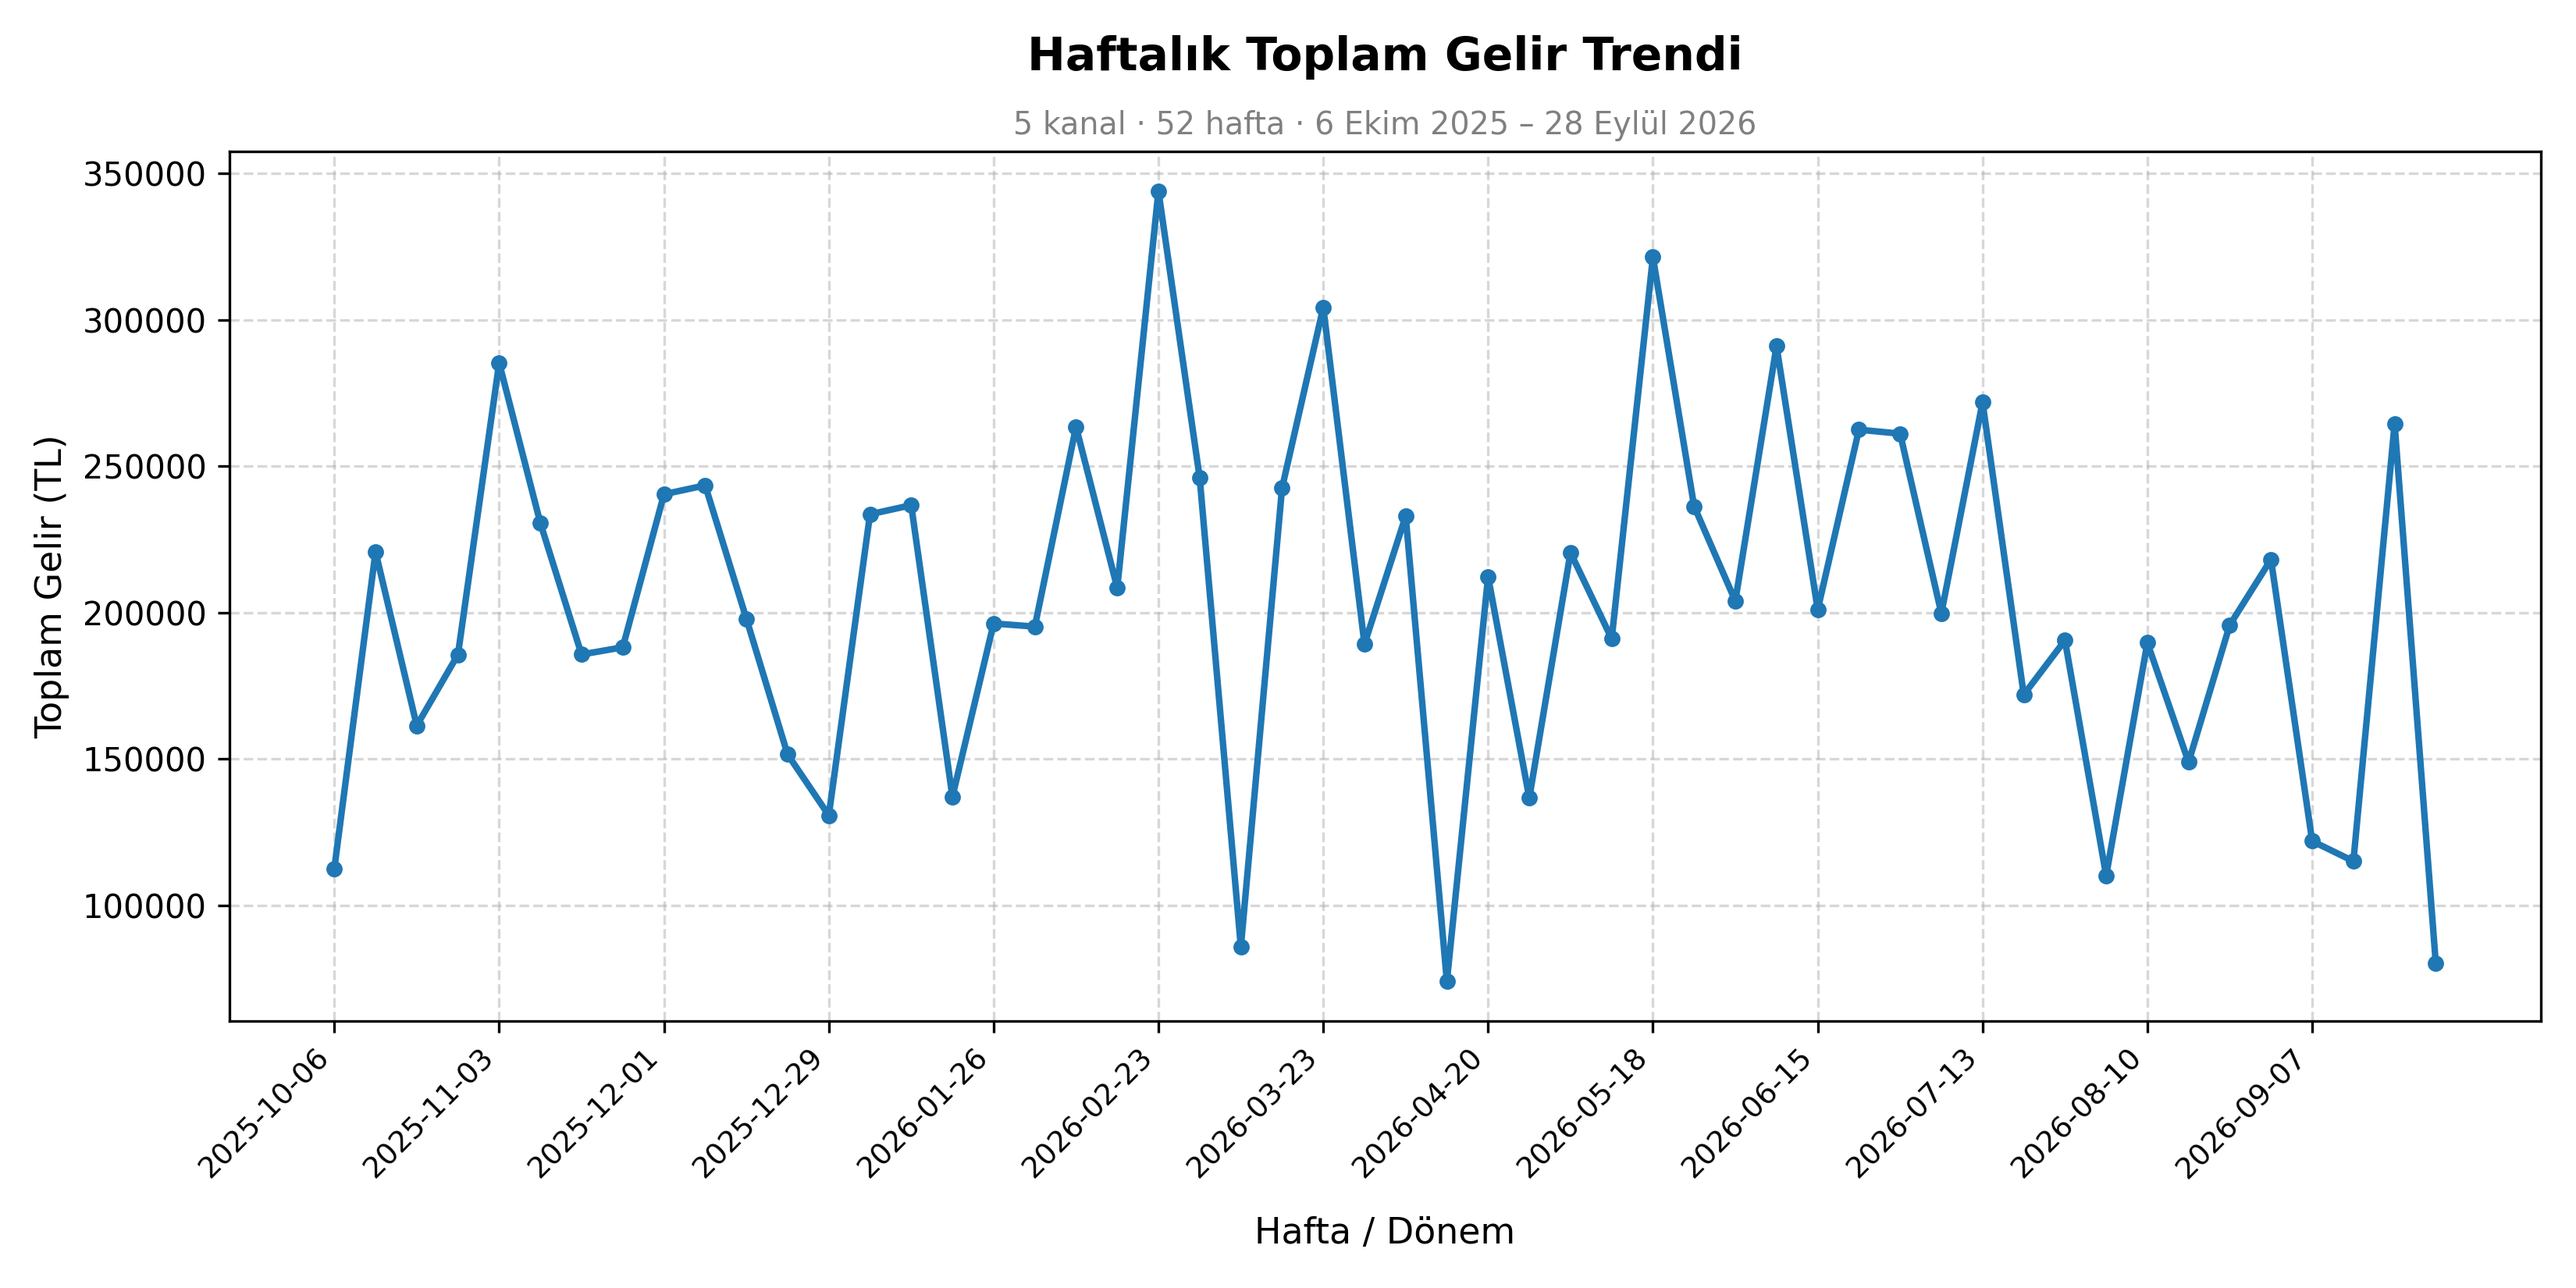
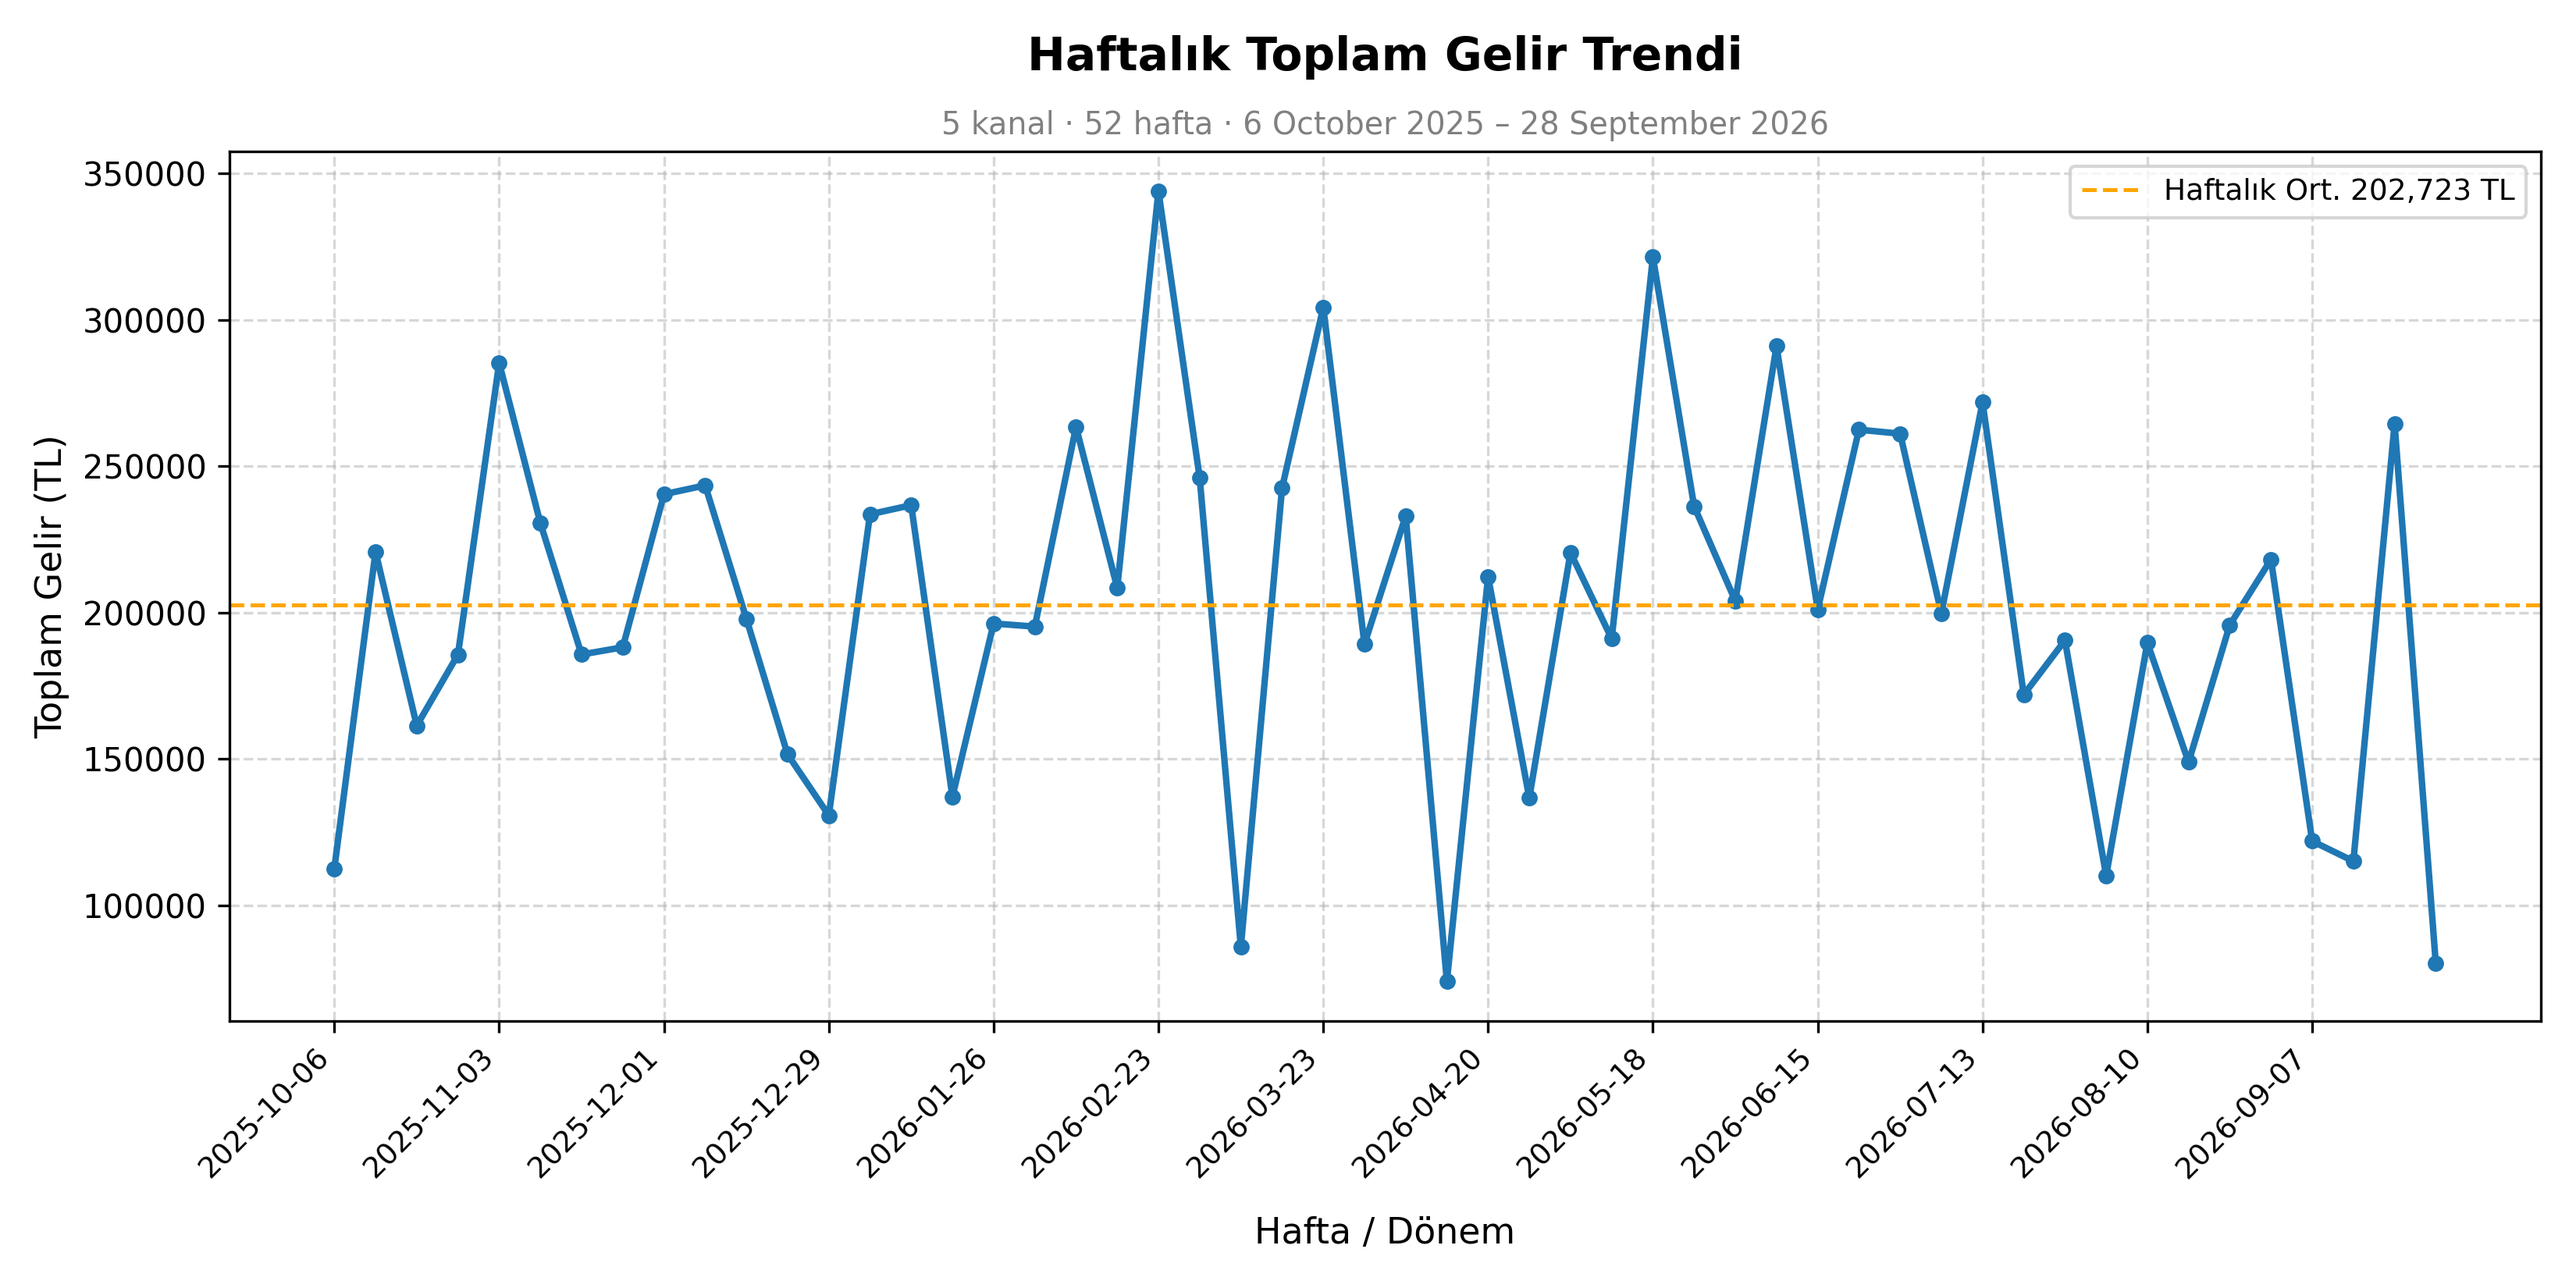
fix(fe): Windows uyumlu tarih formati duzeltildi, gorseller yeniden uretildi

Changed region(s): [[0.3745, 0.0927, 0.7179, 0.1236], [0.8115, 0.1236, 0.9988, 0.1545]]

diff --git a/src/generate_visuals.py b/src/generate_visuals.py
@@ -17,8 +17,8 @@ channel_col = "kanal"
 # Alt başlık için dinamik hesapla
 n_kanal = df[channel_col].nunique()
 n_hafta = df[week_col].nunique()
-tarih_baslangic = pd.to_datetime(df[week_col]).min().strftime("%-d %B %Y")
-tarih_bitis = pd.to_datetime(df[week_col]).max().strftime("%-d %B %Y")
+tarih_baslangic = pd.to_datetime(df[week_col]).min().strftime("%d %B %Y").lstrip("0")
+tarih_bitis = pd.to_datetime(df[week_col]).max().strftime("%d %B %Y").lstrip("0")
 alt_baslik = f"{n_kanal} kanal · {n_hafta} hafta · {tarih_baslangic} – {tarih_bitis}"
 
 # ---------------------------------------------------------
